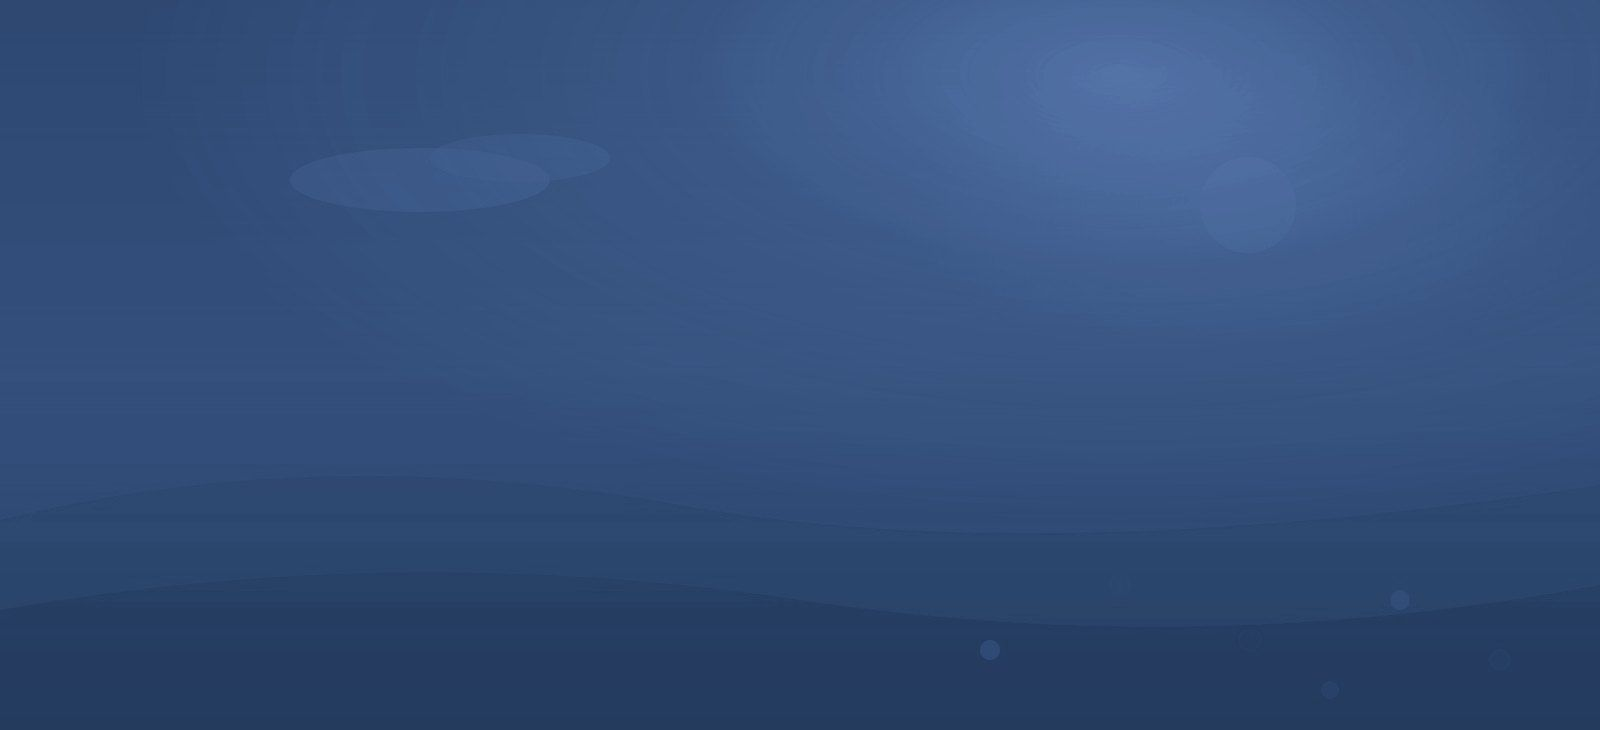
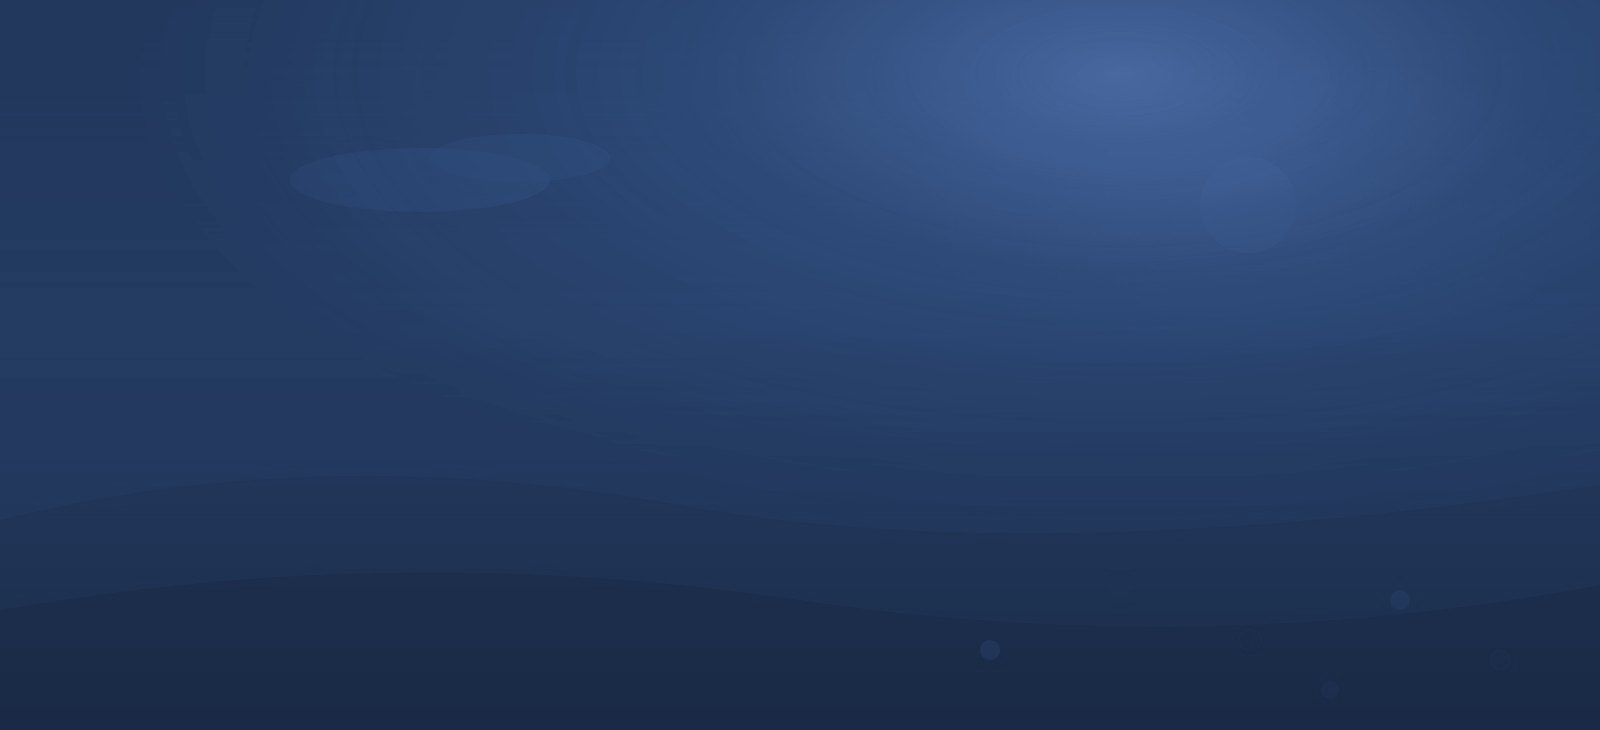
밤 배경을 한 단계 더 어둡게 (B안)
A안은 형태는 잘 보였지만 밤 느낌이 약했다. 밝기를 더 낮추고 남색
덮개와 아래쪽 어둠을 키워 깊은 밤에 가깝게 맞춘다. 푸른 달빛 색조는
그대로 두어 형태는 남는다.

Claude-Session: https://claude.ai/code/session_01VDsoJVjkmq7yGfS2oWFvuq

diff --git a/src/verseBg.ts b/src/verseBg.ts
@@ -209,24 +209,24 @@ function gradeSlot(ctx: CanvasRenderingContext2D, img: HTMLImageElement, slot: B
     // 밤 — 밝기를 낮추고 푸른 달빛 색조를 입힌다. 어둡게만 하면 검은 판이 되고,
     // 색조가 없으면 낮처럼 보인다. 원본이 이미 어두우면 덜 누른다.
     const lum = canvasLum(ctx);
-    const f = Math.max(0.5, Math.min(0.95, 62 / Math.max(1, lum)));
+    const f = Math.max(0.42, Math.min(0.9, 50 / Math.max(1, lum)));
     const v = Math.round(255 * f);
     multiply(ctx, `rgb(${v}, ${v}, ${v})`);
     // 어두운 부분을 살짝 들어 형태를 남긴다
-    ctx.fillStyle = 'rgba(255,255,255,0.05)';
+    ctx.fillStyle = 'rgba(255,255,255,0.04)';
     ctx.fillRect(0, 0, W, H);
     // 밝기는 유지한 채 색만 푸르게 (sharp의 tint와 같은 효과)
     ctx.globalCompositeOperation = 'color';
-    ctx.fillStyle = 'rgb(150, 178, 235)';
+    ctx.fillStyle = 'rgb(140, 168, 230)';
     ctx.fillRect(0, 0, W, H);
     ctx.globalCompositeOperation = 'source-over';
-    ctx.fillStyle = 'rgba(14,30,68,0.34)';
+    ctx.fillStyle = 'rgba(10,23,56,0.42)';
     ctx.fillRect(0, 0, W, H);
-    glow(ctx, W * 0.7, H * 0.1, W * 0.62, 'rgba(207,226,255,0.3)', 'rgba(185,208,245,0.105)');
+    glow(ctx, W * 0.7, H * 0.1, W * 0.62, 'rgba(207,226,255,0.34)', 'rgba(185,208,245,0.12)');
     vGradient(ctx, [
-      [0, 'rgba(6,13,34,0)'],
-      [0.5, 'rgba(6,13,34,0.08)'],
-      [1, 'rgba(6,13,34,0.34)'],
+      [0, 'rgba(5,10,28,0)'],
+      [0.45, 'rgba(5,10,28,0.1)'],
+      [1, 'rgba(5,10,28,0.42)'],
     ]);
   }
 }
